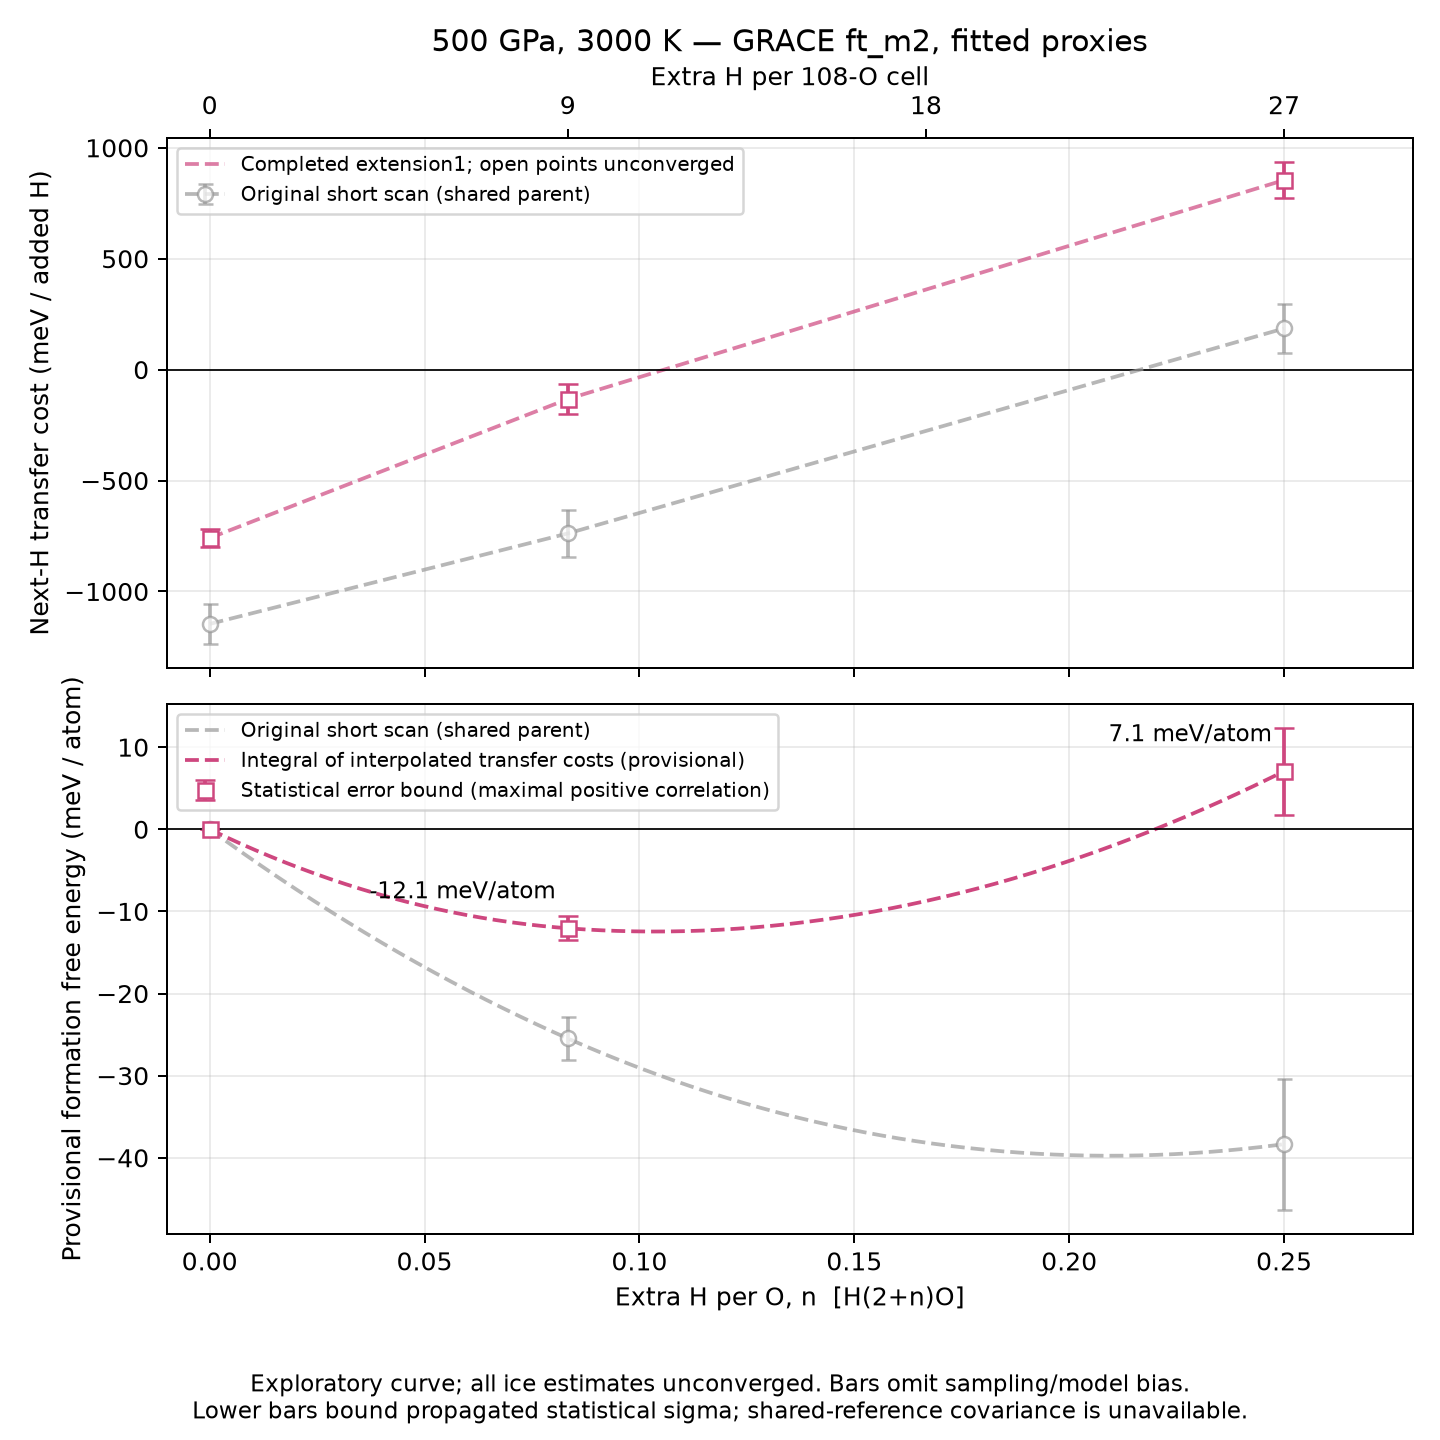
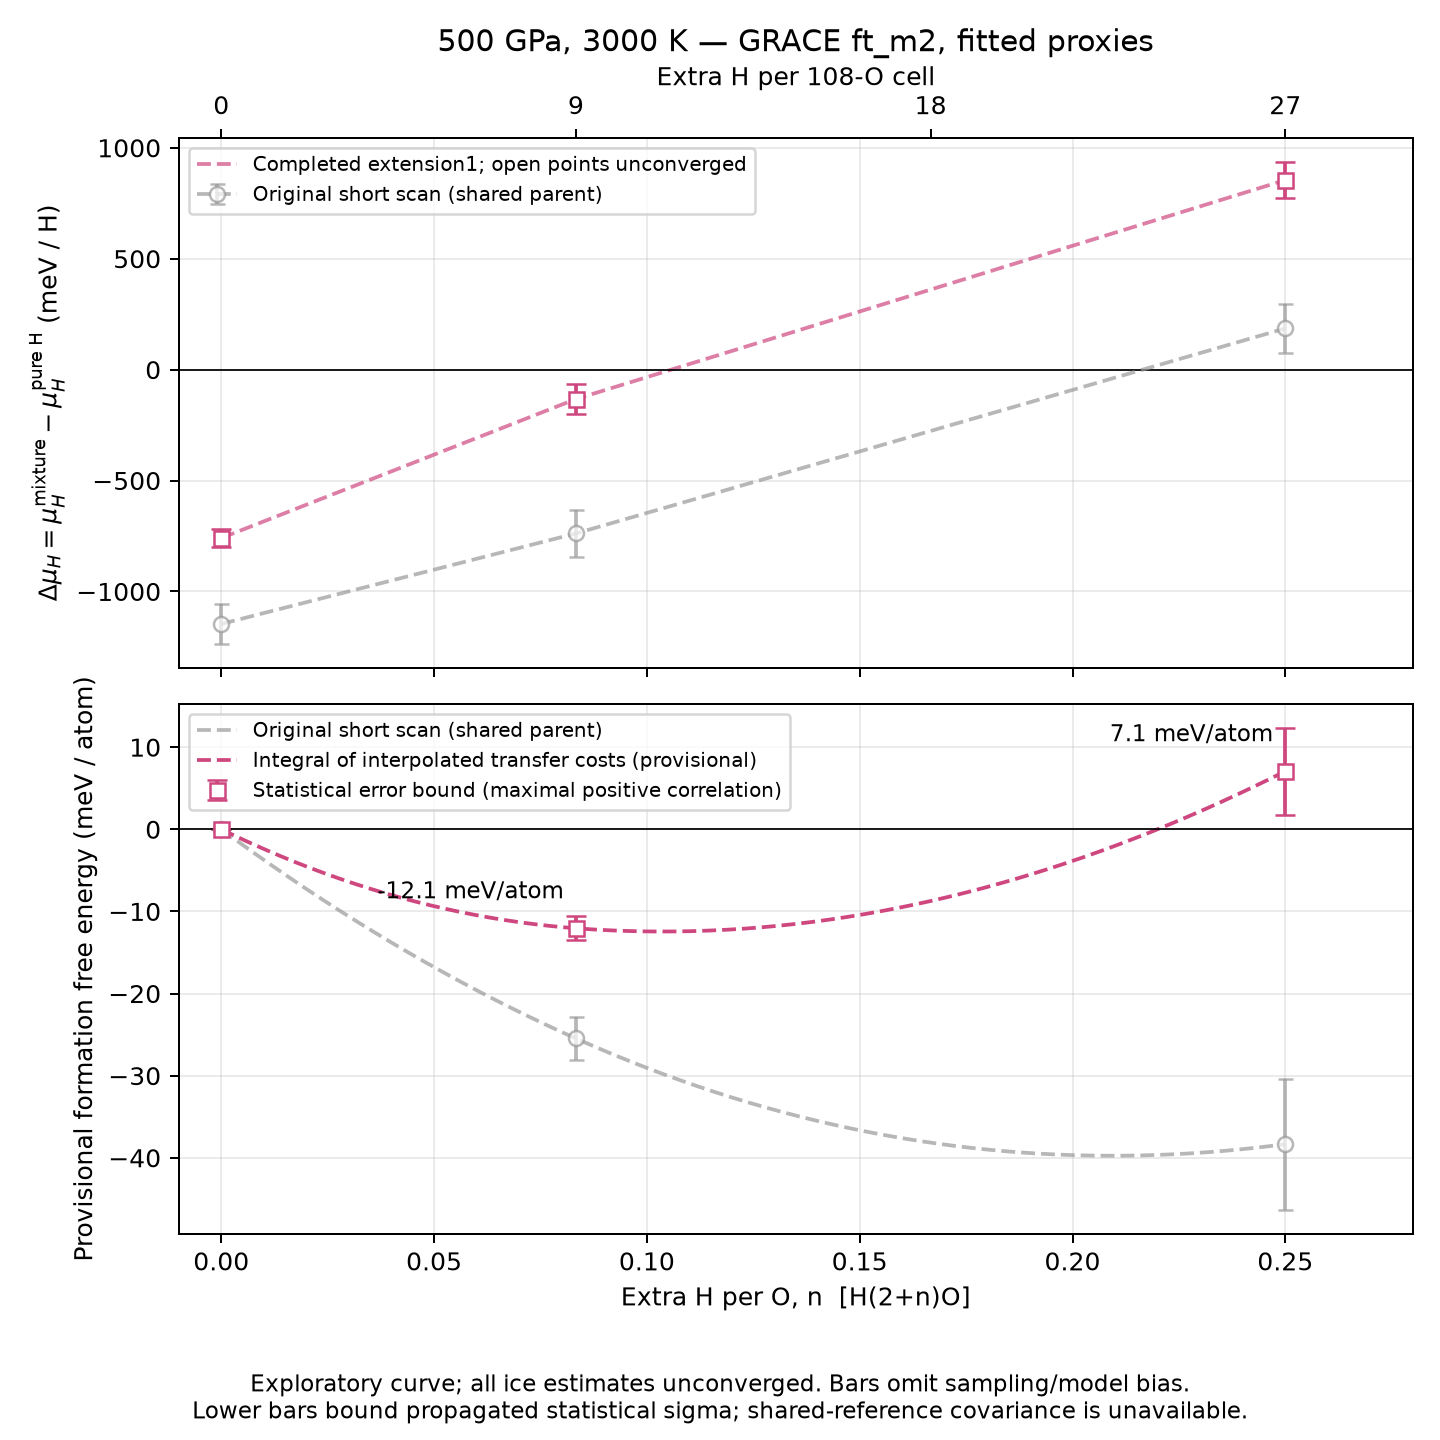
Label the transfer chemical potential explicitly

diff --git a/mlp_pipeline/tdi/pwidom_formation.py b/mlp_pipeline/tdi/pwidom_formation.py
@@ -82,7 +82,7 @@ def main():
                         mfc=color if r["flag"] == "ok" else "white", capsize=4)
     axes[0].plot(n, mu, "--", color=color, alpha=.7, label=f"{a.label}; open points unconverged")
     axes[0].set_title(f"{a.P:g} GPa, {a.T:g} K — GRACE ft_m2, fitted proxies")
-    axes[0].set_ylabel("Next-H transfer cost (meV / added H)")
+    axes[0].set_ylabel(r"$\Delta\mu_H = \mu_H^{\mathrm{mixture}} - \mu_H^{\mathrm{pure\ H}}$ (meV / H)")
     axes[0].legend(loc="upper left", fontsize=8)
     axes[1].plot(grid, integral/(3+grid), "--", color=color,
                  label="Integral of interpolated transfer costs (provisional)")
